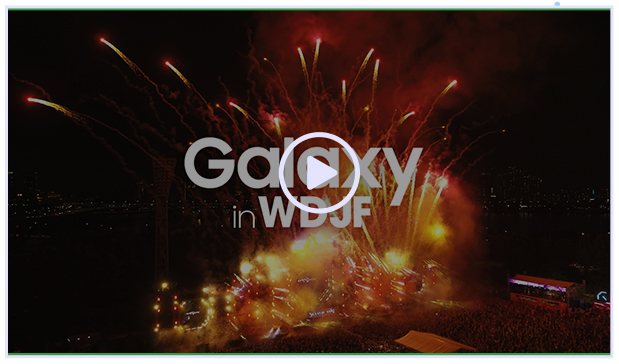
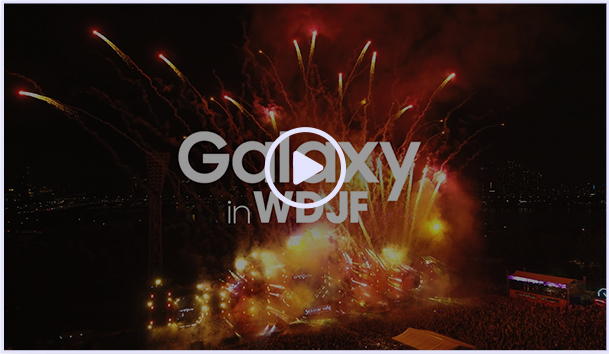
update
pc, mb - 링크 수정, 썸네일 교체

diff --git a/index.html b/index.html
@@ -40,7 +40,7 @@
             </div>
             <div class="swiper-slide">
               <a href="#" class="ctaVideo">
-                <img src="./public/images/pc_swiper_main_2.jpg" alt="" data-name="v_F9caX2hHg" data-title="[Galaxy in WDJF] 갤럭시, 월디페랑 만났다고? | 삼성전자">
+                <img src="./public/images/pc_swiper_main_2.jpg" alt="" data-name="SdjgICv75D8" data-title="[Galaxy in WDJF] 새로운 세계로 널 소환 | 삼성전자">
               </a>
             </div>
           </div>
@@ -106,7 +106,7 @@
         </ul>
       </div>
       <div class="btnArea">
-        <a href="https://www.instagram.com/ar/781134909984664/?ch=NzYwMzE1MDYyN2IyNzY4NGY5YTRmYTgyYjE0YzE0YTM%3D" target="_blank">AR 필터 촬영하기</a>
+        <a href="https://www.instagram.com/ar/1402075013922195/" target="_blank">AR 필터 촬영하기</a>
         <a href="#" target="_blank">이벤트 응모하기</a>
       </div>
     </section>
@@ -157,7 +157,7 @@
             </div>
             <div class="swiper-slide">
               <a href="#" class="ctaVideo">
-                <img src="./public/images/mb_swiper_thumbs_2.jpg" alt="" data-name="v_F9caX2hHg" data-title="[Galaxy in WDJF] 갤럭시, 월디페랑 만났다고? | 삼성전자">
+                <img src="./public/images/mb_swiper_thumbs_2.jpg" alt="" data-name="SdjgICv75D8" data-title="[Galaxy in WDJF] 새로운 세계로 널 소환 | 삼성전자">
               </a>
             </div>
           </div>
@@ -210,7 +210,7 @@
         </ul>
       </div>
       <div class="btnArea">
-        <a href="https://www.instagram.com/ar/781134909984664/?ch=NzYwMzE1MDYyN2IyNzY4NGY5YTRmYTgyYjE0YzE0YTM%3D" target="_blank">AR 필터 촬영하기</a>
+        <a href="https://www.instagram.com/ar/1402075013922195/" target="_blank">AR 필터 촬영하기</a>
         <a href="#" target="_blank">이벤트 응모하기</a>
       </div>
     </section>
